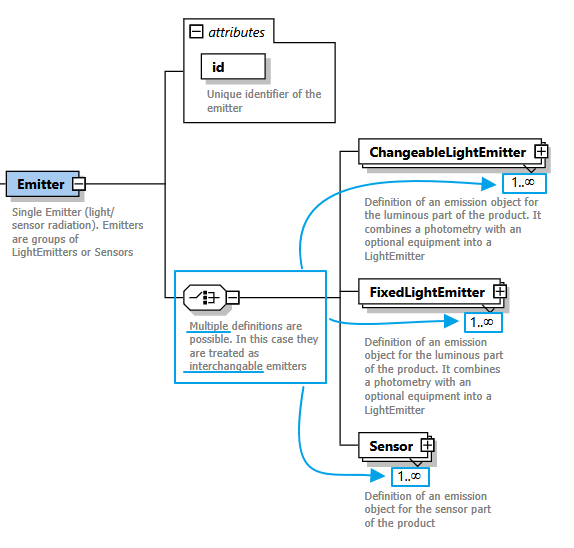
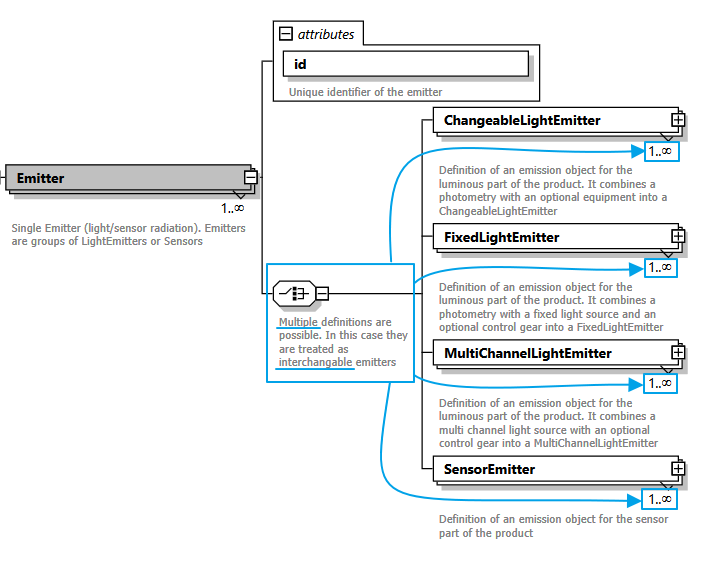
Add MultiChannelLightEmitter documentation to emitters.md

Changed region(s): [[0.0, 0.031, 0.9774, 0.9617]]

diff --git a/docs/structure/emitters.md b/docs/structure/emitters.md
@@ -8,7 +8,7 @@ sidebar_label: Emitters
 
 `Emitters` is the eighth child-element of `GeneralDefinitions` - the part in the XML where **global and reusable** elements are defined (imagine them as the building blocks of each luminaire).
 
-Emitters define the **radiation emitting parts** of the luminaire. Be it in form of **visible light** of lamps or **infrared** EMR in case of motion detection sensors. However, they **define not** the lamps or sensors themselves. Emitters is the XML block, where many of these parts before come together. They are the parts of the luminaire description, where the measured photometry is finally placed. And get combined later in [Variants](/docs/structure/variant.md) with the geometrical definition of the luminaire:
+Emitters define the **radiation emitting parts** of the luminaire. Be it in form of **visible light** of lamps or **infrared** EMR in case of motion detection sensors. However, they **define not** the lamps or sensors themselves. Emitters is the XML block, where many of these parts before come together. They are the parts of the luminaire description, where the measured photometry is finally placed. And get combined later in [`Variants`](/docs/structure/variant.md) with the geometrical definition of the luminaire:
 
 <img src="/img/docs/structure/emitters-context.webp" alt="Emitter" width="450" /><br /><br />
 
@@ -16,17 +16,18 @@ Emitters define the **radiation emitting parts** of the luminaire. Be it in form
 
 ### `Emitter` root element
 
-First of all you have to decide which **type of emitter** is required for a your **radiation emitting part**. Each luminaire can contain multiple Emitter with different types. The following three types are available:
+First of all you have to decide which **type of emitter** is required for a your **radiation emitting part**. Each luminaire can contain multiple Emitter with different types. The following four types are available:
 
 - Emitter for a **lamp** that can be **replaced** in the luminaire ➜ choose `ChangeableLightEmitter`  
 - Emitter for a **lamp permanently installed** in the luminaire ➜ choose `FixedLightEmitter`
+- Emitter for a **multi channel** light source in the luminaire ➜ choose `MultiChannelLightEmitter`
 - Emitter for a **sensor** ➜ choose `SensorEmitter`
 
-<img src="/img/docs/structure/emitters-xsd.webp" alt="Emitters in XSD" width="460" />
+<img src="/img/docs/structure/emitters-xsd.webp" alt="Emitters in XSD" width="600" />
 
 :::important
 
-One <span class="blue-text">remarkable</span> part of the XSD definition above is the fact, that GLDF accepts **one or more** `ChangeableLightEmitter` for **each** single Emitter. Or one or more `FixedLightEmitter` or `Sensor` vice versa.
+One <span class="blue-text">remarkable</span> part of the XSD definition above is the fact, that GLDF accepts **one or more** `ChangeableLightEmitter` for **each** single Emitter. Or one or more `FixedLightEmitter`, `MultiChannelLightEmitter` or `Sensor` vice versa.
 
 This does **not** mean that these emitters are **all active at the same time**. But that they are **interchangeable**. The luminaire can only operate in one of this definitions. And lighting calculation software like DIALux or RELUX will be able to switch between this modes, as users need it.
 
@@ -63,7 +64,7 @@ Let assume we would like to define a luminaire with a changeable light output. S
 
 ### `ChangeableLightEmitter`
 
-An Emitter with child element(s) of type `ChangeableLightEmitter` is intended for light outputs with **changeable lamps**, as the name already says. Another functionality is to map multiple **emergency modes** or **different control gears** for one light output. All this variability can be achieved with this type. Choose the `ChangeableLightEmitter` as well, if you have defined [Equipments](/docs/structure/equipments.md) previously (a combination of [ChangeableLightSource](/docs/structure/light-sources.md) with optional [ControlGear](/docs/structure/control-gears.md)). And you would like to reference them now.
+An Emitter with child element(s) of type `ChangeableLightEmitter` is intended for light outputs with **changeable lamps**, as the name already says. Another functionality is to map multiple **emergency modes** or **different control gears** for one light output. All this variability can be achieved with this type. Choose the `ChangeableLightEmitter` as well, if you have defined [`Equipments`](/docs/structure/equipments.md) previously (a combination of [`ChangeableLightSource`](/docs/structure/light-sources.md) with optional [`ControlGear`](/docs/structure/control-gears.md)). And you would like to reference them now.
 
 #### XSD description
 
@@ -291,6 +292,129 @@ Compared to the first example, the following optional elements have been added:
 - Line 35: An additional `EmergencyBallastLumenFactor`. Its the ratio of the emergency luminous flux to the total luminous flux specified by `RatedLuminousFlux`. You can replace it with an `EmergencyRatedLuminousFlux` element instead, if an absolute flux value in emergency mode suits more.
 
 Add these additional elements as applicable.
+
+---
+
+### `MultiChannelLightEmitter`
+
+The third emitter type is intended for light outputs of luminaires with multiple channels. It is also the simplest of the three, as the properties of the different channels are defined at the [`MultiChannelLightSource`](/docs/structure/light-sources). In addition to the reference of a `MultiChannelLightSource`, the specification of a [`ControlGear`](/docs/structure/control-gears) is also possible, as well as the Emitter rotation ([see below](#emitter-rotation)) and the Emitters display name.
+
+<img src="/img/docs/structure/emitters-xsd-multichannel.webp" alt="MultiChannelLightEmitter" width="700" />
+
+---
+
+#### `MultiChannelLightEmitter` XML example
+
+An example of the `MultiChannelLightEmitter` illustrates well how the definition of the channels happens at the `MultiChannelLightSource` itself - in particular the photometry and spectrum of each channel:
+
+```xml {44,52,81,98-101} showLineNumbers
+<?xml version="1.0" encoding="UTF-8"?>
+<Root xmlns:xsi="http://www.w3.org/2001/XMLSchema-instance">
+  <Header/>  
+  <GeneralDefinitions>
+    <Files>
+      <File id="photometryRedFile" contentType="ldc/eulumdat" 
+            type="url">http://example.org/photometryRed.ldt</File>
+      <File id="photometryGreenFile" contentType="ldc/eulumdat" 
+            type="url">http://example.org/photometryGreen.ldt</File>
+      <File id="photometryBlueFile" contentType="ldc/eulumdat" 
+            type="url">http://example.org/photometryBlue.ldt</File>
+      <File id="spectrumRedFile" contentType="spectrum/text" 
+            type="url">http://example.org/spectrumRed.txt</File>
+      <File id="spectrumGreenFile" contentType="spectrum/text" 
+            type="url">http://example.org/spectrumGreen.txt</File>
+      <File id="spectrumBlueFile" contentType="spectrum/text" 
+            type="url">http://example.org/spectrumBlue.txt</File>
+      <File id="lightSourceImage" contentType="image/jpg" 
+            type="url">http://example.org/image.jpg</File>
+    </Files>
+    <Photometries>
+      <Photometry id="photometryRed">
+        <PhotometryFileReference fileId="photometryRedFile"/>
+      </Photometry>
+      <Photometry id="photometryGreen">
+        <PhotometryFileReference fileId="photometryGreenFile"/>
+      </Photometry>
+      <Photometry id="photometryBlue">
+        <PhotometryFileReference fileId="photometryBlueFile"/>
+      </Photometry>
+    </Photometries>
+    <Spectrums>
+      <Spectrum id="spectrumRed">
+        <SpectrumFileReference fileId="spectrumRedFile"/>
+      </Spectrum>
+      <Spectrum id="spectrumGreen">
+        <SpectrumFileReference fileId="spectrumGreenFile"/>
+      </Spectrum>
+      <Spectrum id="spectrumBlue">
+        <SpectrumFileReference fileId="spectrumBlueFile"/>
+      </Spectrum>
+    </Spectrums>
+    <LightSources>
+      <MultiChannelLightSource id="multiChannelLightSource">
+        <Name>
+          <Locale language="en">RGB MultiChannel</Locale>
+        </Name>
+        <RatedInputPower>50</RatedInputPower>
+        <LightSourceImages>
+          <Image fileId="lightSourceImage" imageType="Product Picture"/>
+        </LightSourceImages>
+        <Channels>
+          <Channel type="Red">
+            <DisplayName>
+              <Locale language="en">Red</Locale>
+            </DisplayName>
+            <SpectrumReference spectrumId="spectrumRed"/>
+            <PhotometryReference photometryId="photometryRed"/>
+            <RatedLuminousFlux>150</RatedLuminousFlux>
+          </Channel>
+          <Channel type="Green">
+            <DisplayName>
+              <Locale language="en">Green</Locale>
+            </DisplayName>
+            <SpectrumReference spectrumId="spectrumGreen"/>
+            <PhotometryReference photometryId="photometryGreen"/>
+            <RatedLuminousFlux>150</RatedLuminousFlux>
+          </Channel>
+          <Channel type="Blue">
+            <DisplayName>
+              <Locale language="en">Blue</Locale>
+            </DisplayName>
+            <SpectrumReference spectrumId="spectrumBlue"/>
+            <PhotometryReference photometryId="photometryBlue"/>
+            <RatedLuminousFlux>150</RatedLuminousFlux>
+          </Channel>
+        </Channels>
+      </MultiChannelLightSource>
+    </LightSources>
+    <ControlGears>
+      <ControlGear id="controlGear">
+        <Name>
+          <Locale language="en">Electronic ballast</Locale>
+        </Name>
+        <NominalVoltage>
+          <VoltageRange>
+            <Min>220</Min>
+            <Max>230</Max>
+          </VoltageRange>
+        </NominalVoltage>
+        <StandbyPower>5</StandbyPower>
+        <Dimmable>true</Dimmable>
+        <ColorControllable>true</ColorControllable>
+      </ControlGear>
+    </ControlGears>
+    <Emitters>
+      <Emitter id="emitter">
+        <MultiChannelLightEmitter>
+          <LightSourceReference multiChannelLightSourceId="multiChannelLightSource"/>
+          <ControlGearReference controlGearId="controlGear"/>
+        </MultiChannelLightEmitter>
+      </Emitter>
+    </Emitters>
+  </GeneralDefinitions>
+  <ProductDefinitions/>
+</Root>
+```
 
 ---
 
